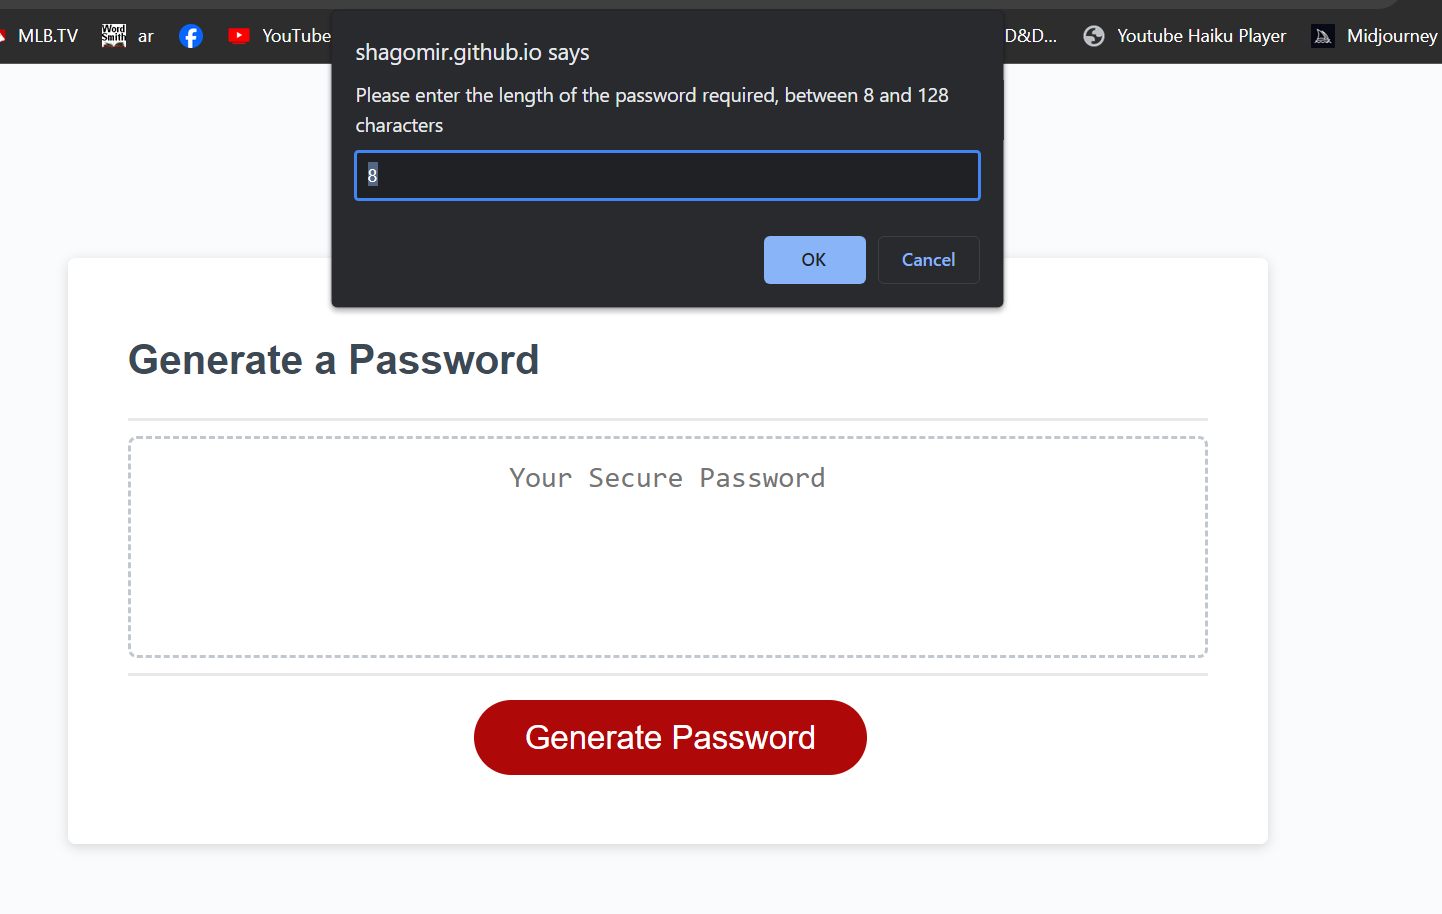
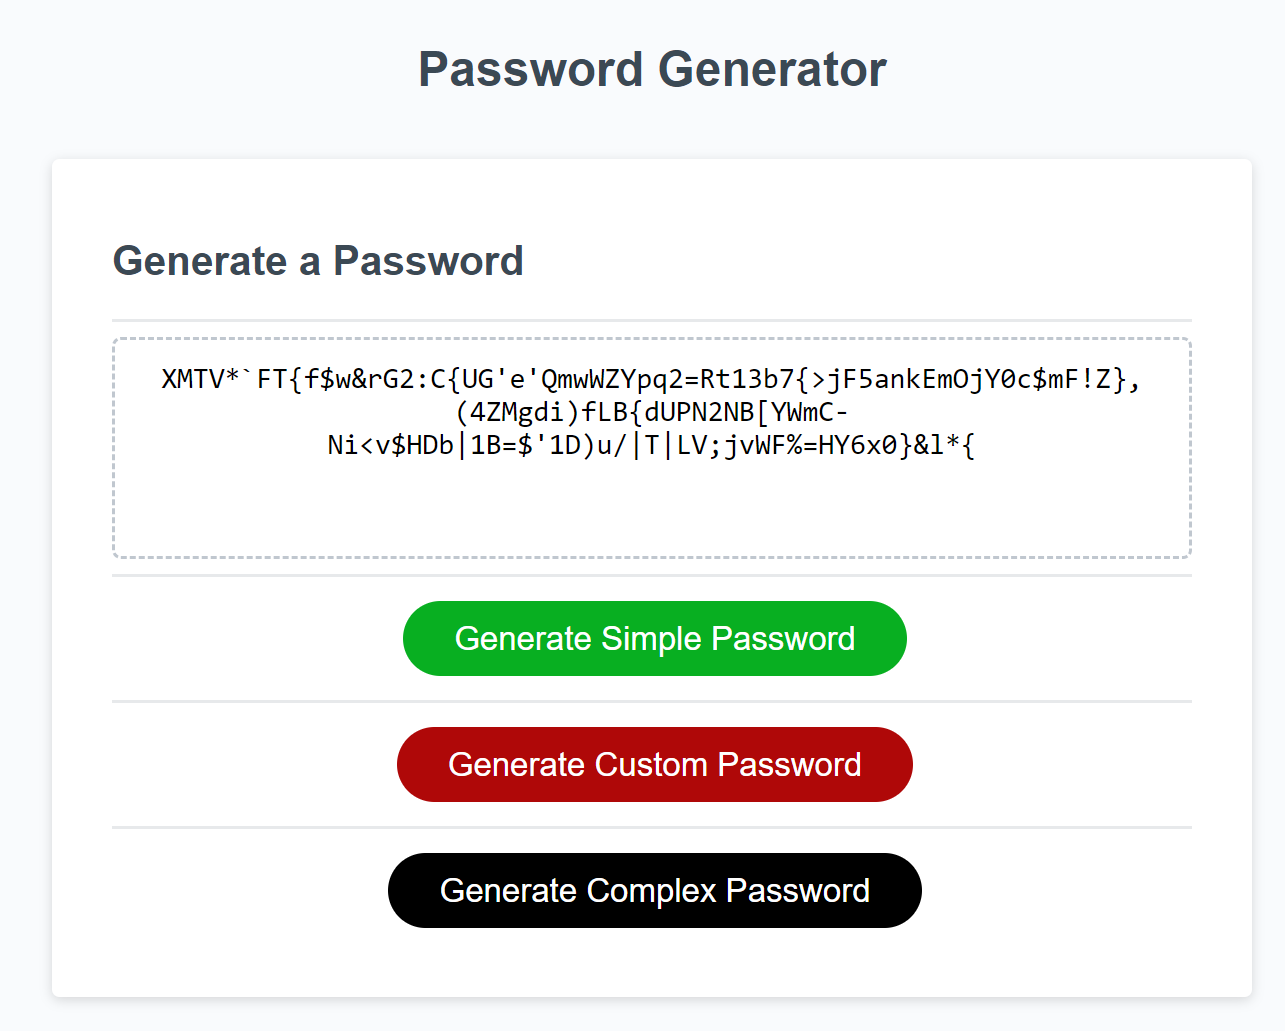
readme and screenshot updates

diff --git a/style.css b/style.css
@@ -88,6 +88,14 @@ header {
   cursor: pointer;
 }
 
+#genSimple {
+  background-color: hsl(129, 91%, 36%);
+}
+
+#genComplex {
+  background-color: hsl(0, 0%, 0%);
+}
+
 button[disabled] {
   cursor: default;
   background: #c0c7cf;

diff --git a/README.md b/README.md
@@ -40,6 +40,6 @@ The algorithm used prompts the user for length, and then choices of which charac
 
 Then it will add one character from each category, then finishes the password by adding random characters to the required length. After this, the password is shuffled so that the required characters are not at the beginning of the password to increase randomness and security. 
 
-I used StackOverflow extensively to learn how to generate a random string, as well as shuffling the string. 
+I used StackOverflow extensively to learn how to generate a random string, as well as shuffling the string. For shuffling, I am using the [Fisher-Yates Shuffle](https://en.wikipedia.org/wiki/Fisher%E2%80%93Yates_shuffle) algorithm to ensure a truly random password. 
 
-For shuffling, I am using the [Fisher-Yates Shuffle](https://en.wikipedia.org/wiki/Fisher%E2%80%93Yates_shuffle) algorithm to ensure a truly random password. 
+After completing the project I was asked by the instructor to refactor the code so that it comprises a series of functions. To demonstrate why you would do this, I have added additional buttons to the page to show how this works - I am able to feed specific parameters to the functions and generate a password. The simple password uses the simplified character list and is 8 characters long, while the complex password is 128 characters and uses the full gamut of charaters available for passwords. 
